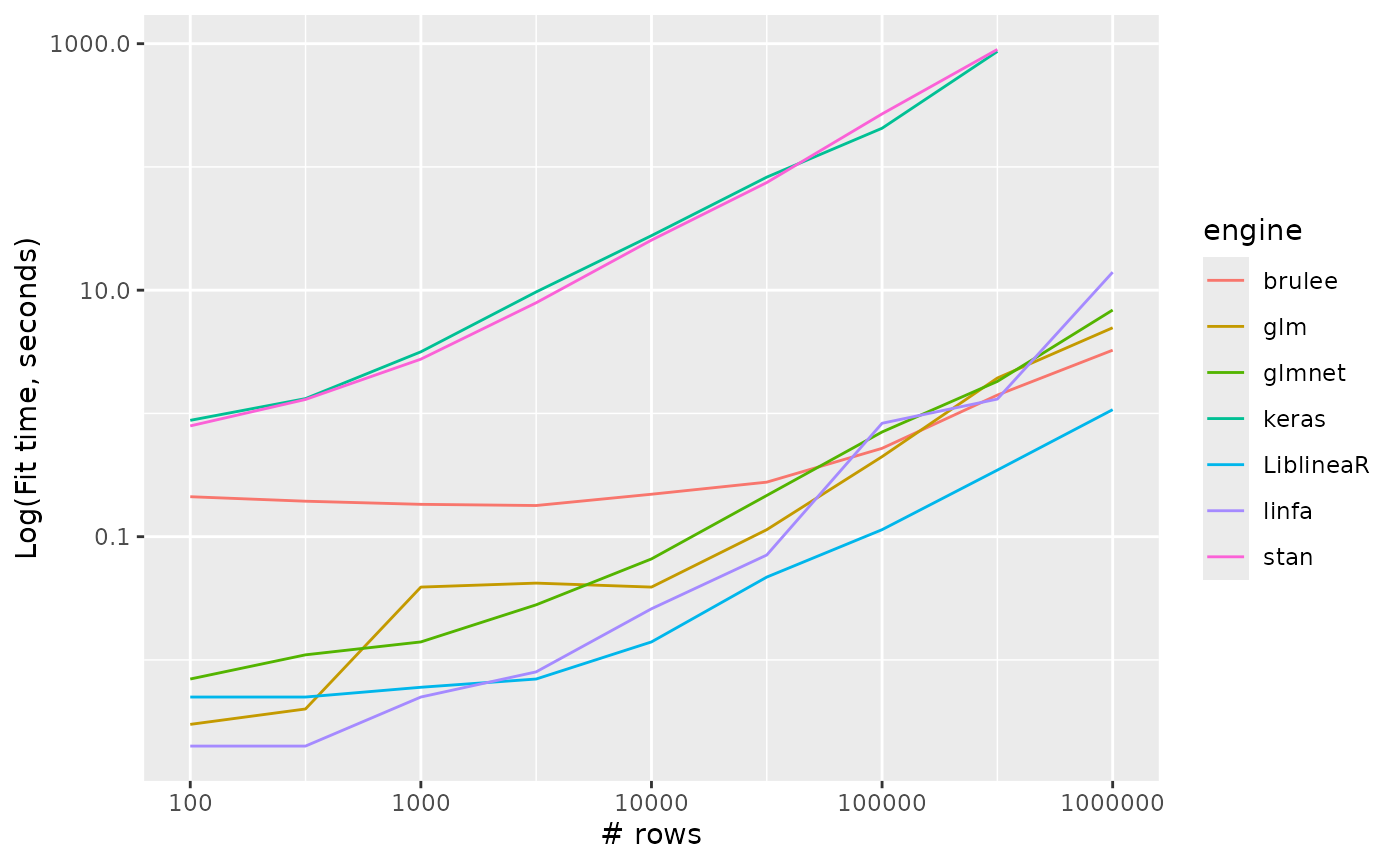
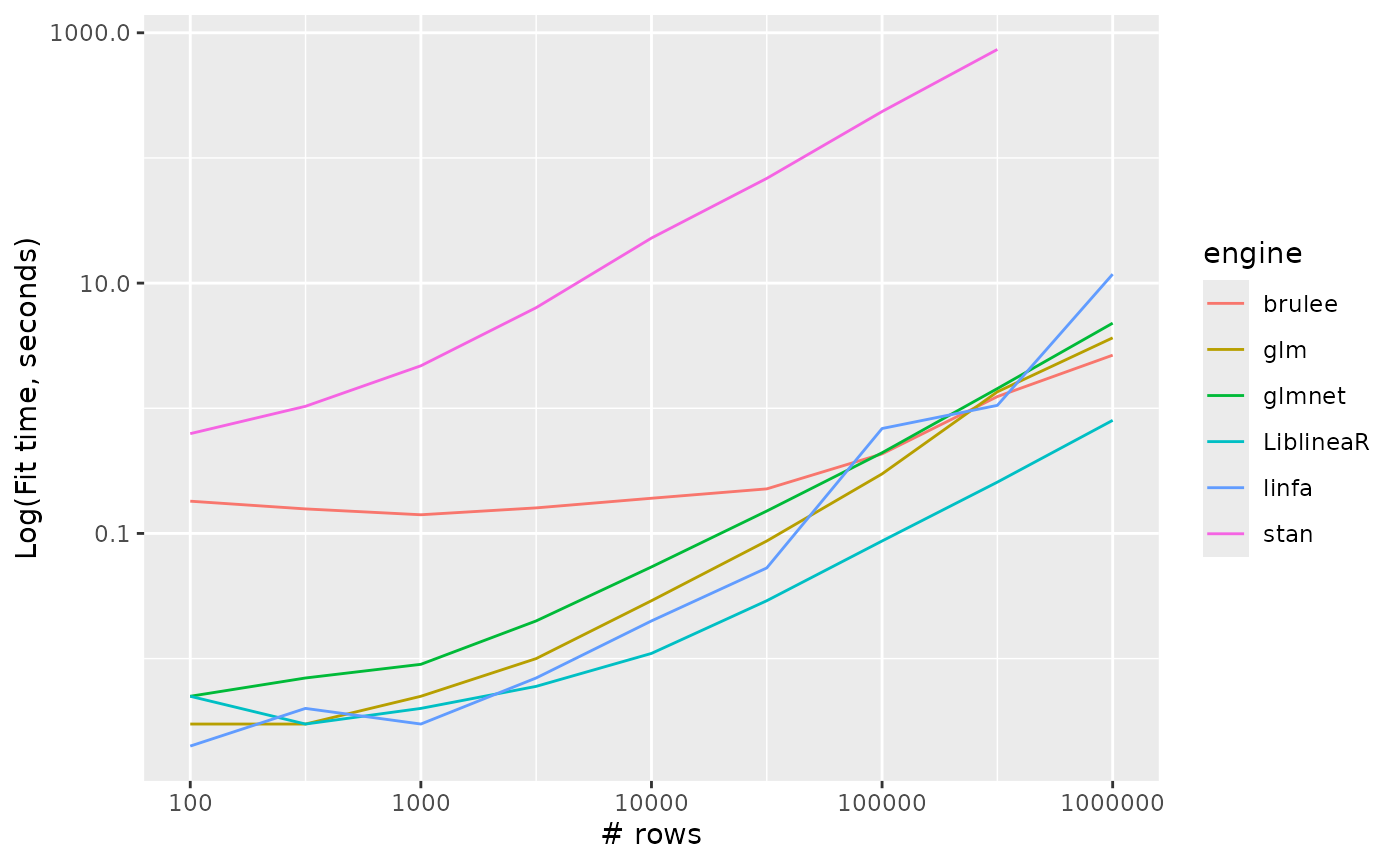
Deploying to gh-pages from @ simonpcouch/rinfa@db1dc751651775ee8a122ca1f859f9343efaf924 🚀

diff --git a/articles/benchmarks.html b/articles/benchmarks.html
@@ -129,7 +129,7 @@ frame.</p>
 <span>  <span class="kw">if</span> <span class="op">(</span><span class="va">engine</span> <span class="op">==</span> <span class="st">"glmnet"</span><span class="op">)</span> <span class="op">{</span></span>
 <span>    <span class="va">spec</span> <span class="op">&lt;-</span> <span class="va">spec</span> <span class="op"><a href="https://magrittr.tidyverse.org/reference/pipe.html" class="external-link">%&gt;%</a></span> <span class="fu"><a href="https://parsnip.tidymodels.org/reference/set_args.html" class="external-link">set_args</a></span><span class="op">(</span>penalty <span class="op">=</span> <span class="fl">0</span><span class="op">)</span></span>
 <span>  <span class="op">}</span></span>
-<span>  <span class="kw">if</span> <span class="op">(</span><span class="va">engine</span> <span class="op">==</span> <span class="st">"spark"</span><span class="op">)</span> <span class="op">{</span></span>
+<span>  <span class="kw">if</span> <span class="op">(</span><span class="va">engine</span> <span class="op"><a href="https://rdrr.io/r/base/match.html" class="external-link">%in%</a></span> <span class="fu"><a href="https://rdrr.io/r/base/c.html" class="external-link">c</a></span><span class="op">(</span><span class="st">"spark"</span>, <span class="st">"keras"</span><span class="op">)</span><span class="op">)</span> <span class="op">{</span></span>
 <span>    <span class="kw">next</span></span>
 <span>  <span class="op">}</span></span>
 <span>  <span class="kw">for</span> <span class="op">(</span><span class="va">n_row</span> <span class="kw">in</span> <span class="va">n_rows</span><span class="op">)</span> <span class="op">{</span></span>
